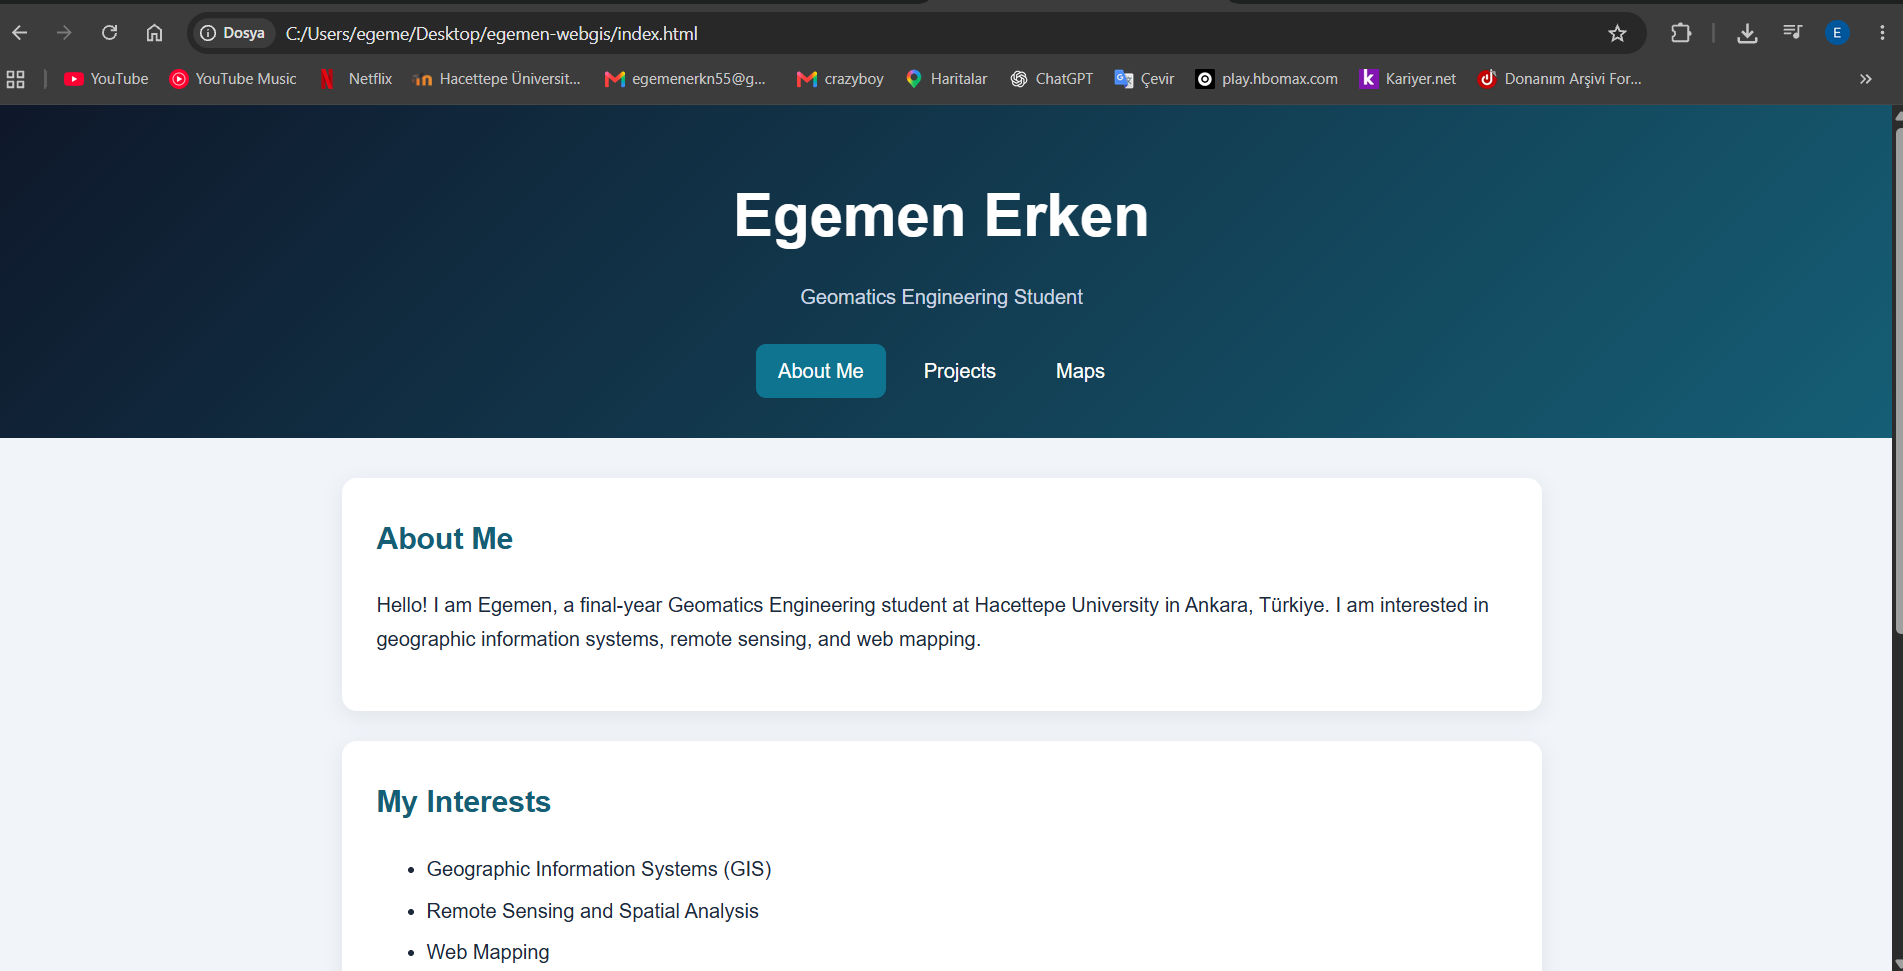
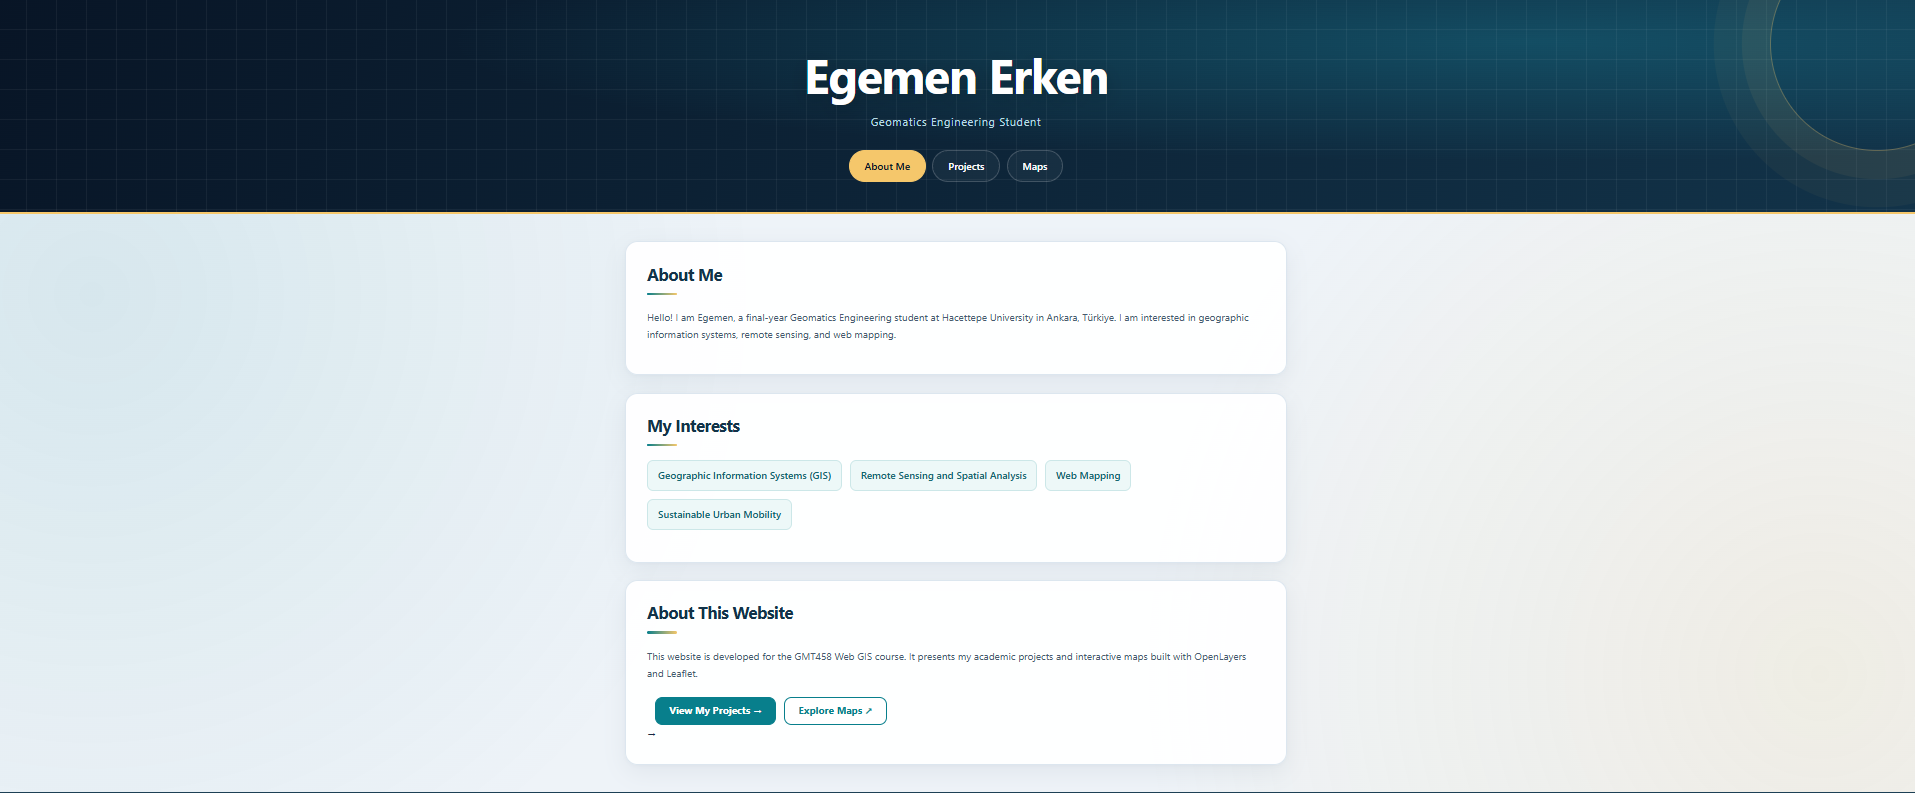
Update project gallery with EV charging analysis and new portfolio design

diff --git a/projects.html b/projects.html
@@ -117,6 +117,21 @@
                         with dedicated pages for projects and maps.
                     </td>
                 </tr>
+                <tr>
+  <td>
+    <img
+      src="images/ev-charging.jpg"
+      alt="EV charging station suitability analysis in Çankaya, Ankara"
+      class="project-image"
+      loading="lazy"
+    >
+  </td>
+  <th scope="row">EV Charging Station Site Selection</th>
+  <td>
+    GIS-based suitability analysis for EV charging station
+    locations in Çankaya, Ankara, using AHP and weighted overlay.
+  </td>
+</tr>
             </tbody>
         </table>
     </div>
